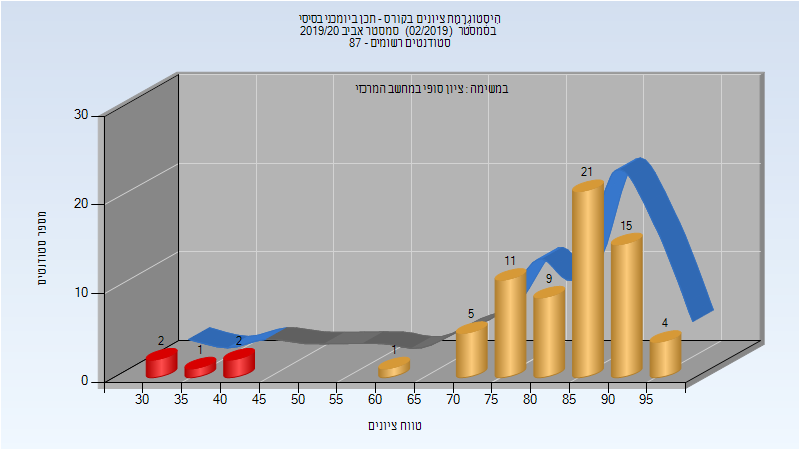
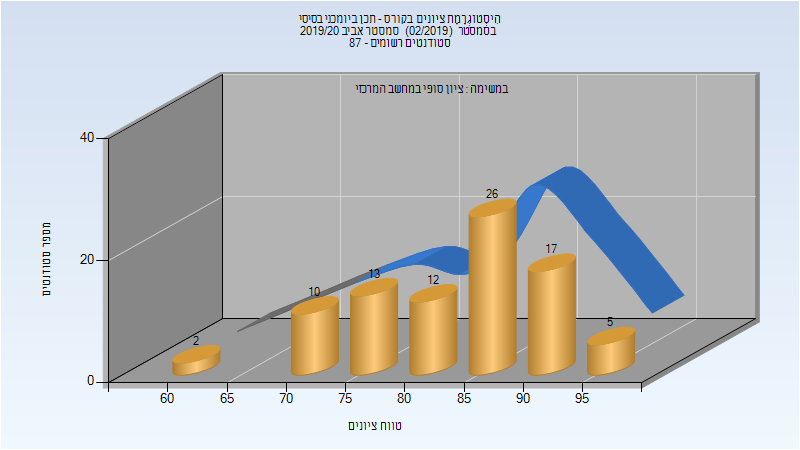
Deploy michael-maltsev/technion-histograms to github.com/michael-maltsev/technion-histograms.git:gh-pages

diff --git a/336517/index.html b/336517/index.html
@@ -189,6 +189,58 @@
 </tr>
 </tbody>
 </table>
+<h3>מבחן מועד ב'</h3>
+<p><img src="201902/Exam_B.png" alt="201902 Exam_B" /></p>
+<table>
+<thead>
+<tr>
+<th>סטודנטים</th>
+<th>עברו/נכשלו</th>
+<th>אחוז עוברים</th>
+<th>ציון מינימלי</th>
+<th>ציון מקסימלי</th>
+<th>ממוצע</th>
+<th>חציון</th>
+</tr>
+</thead>
+<tbody>
+<tr>
+<td>13</td>
+<td>12/1</td>
+<td>92</td>
+<td>45</td>
+<td>100</td>
+<td>87</td>
+<td>89</td>
+</tr>
+</tbody>
+</table>
+<h3>סופי מועד ב'</h3>
+<p><img src="201902/Final_B.png" alt="201902 Final_B" /></p>
+<table>
+<thead>
+<tr>
+<th>סטודנטים</th>
+<th>עברו/נכשלו</th>
+<th>אחוז עוברים</th>
+<th>ציון מינימלי</th>
+<th>ציון מקסימלי</th>
+<th>ממוצע</th>
+<th>חציון</th>
+</tr>
+</thead>
+<tbody>
+<tr>
+<td>13</td>
+<td>12/1</td>
+<td>92</td>
+<td>53</td>
+<td>100</td>
+<td>88.308</td>
+<td>90</td>
+</tr>
+</tbody>
+</table>
 <h3>סופי</h3>
 <p><img src="201902/Finals.png" alt="201902 Finals" /></p>
 <table>
@@ -205,13 +257,13 @@
 </thead>
 <tbody>
 <tr>
-<td>48</td>
-<td>48/0</td>
+<td>53</td>
+<td>52/1</td>
+<td>98</td>
+<td>53</td>
 <td>100</td>
-<td>57</td>
-<td>100</td>
-<td>87.729</td>
-<td>90.5</td>
+<td>90.585</td>
+<td>91</td>
 </tr>
 </tbody>
 </table>

diff --git a/335010/index.html b/335010/index.html
@@ -413,6 +413,32 @@
 </tr>
 </tbody>
 </table>
+<h3>סופי מועד ב'</h3>
+<p><img src="201902/Final_B.png" alt="201902 Final_B" /></p>
+<table>
+<thead>
+<tr>
+<th>סטודנטים</th>
+<th>עברו/נכשלו</th>
+<th>אחוז עוברים</th>
+<th>ציון מינימלי</th>
+<th>ציון מקסימלי</th>
+<th>ממוצע</th>
+<th>חציון</th>
+</tr>
+</thead>
+<tbody>
+<tr>
+<td>23</td>
+<td>23/0</td>
+<td>100</td>
+<td>62</td>
+<td>96</td>
+<td>80.478</td>
+<td>78</td>
+</tr>
+</tbody>
+</table>
 <h3>סופי</h3>
 <p><img src="201902/Finals.png" alt="201902 Finals" /></p>
 <table>
@@ -429,12 +455,12 @@
 </thead>
 <tbody>
 <tr>
-<td>71</td>
-<td>66/5</td>
-<td>93</td>
-<td>32</td>
+<td>85</td>
+<td>85/0</td>
+<td>100</td>
+<td>60</td>
 <td>97</td>
-<td>81.437</td>
+<td>84.047</td>
 <td>86</td>
 </tr>
 </tbody>

diff --git a/336517/README.md b/336517/README.md
@@ -54,11 +54,27 @@
 | ---- | ---- | ---- | ---- | ---- | ---- | ---- |
 | 48 | 48/0 | 100 | 57 | 100 | 87.729 | 90.5 |
 
+### מבחן מועד ב'
+
+![201902 Exam_B](201902/Exam_B.png)
+
+| סטודנטים | עברו/נכשלו | אחוז עוברים | ציון מינימלי | ציון מקסימלי | ממוצע | חציון |
+| ---- | ---- | ---- | ---- | ---- | ---- | ---- |
+| 13 | 12/1 | 92 | 45 | 100 | 87 | 89 |
+
+### סופי מועד ב'
+
+![201902 Final_B](201902/Final_B.png)
+
+| סטודנטים | עברו/נכשלו | אחוז עוברים | ציון מינימלי | ציון מקסימלי | ממוצע | חציון |
+| ---- | ---- | ---- | ---- | ---- | ---- | ---- |
+| 13 | 12/1 | 92 | 53 | 100 | 88.308 | 90 |
+
 ### סופי
 
 ![201902 Finals](201902/Finals.png)
 
 | סטודנטים | עברו/נכשלו | אחוז עוברים | ציון מינימלי | ציון מקסימלי | ממוצע | חציון |
 | ---- | ---- | ---- | ---- | ---- | ---- | ---- |
-| 48 | 48/0 | 100 | 57 | 100 | 87.729 | 90.5 |
+| 53 | 52/1 | 98 | 53 | 100 | 90.585 | 91 |
 

diff --git a/335010/README.md b/335010/README.md
@@ -125,11 +125,19 @@
 | ---- | ---- | ---- | ---- | ---- | ---- | ---- |
 | 71 | 66/5 | 93 | 32 | 97 | 81.437 | 86 |
 
+### סופי מועד ב'
+
+![201902 Final_B](201902/Final_B.png)
+
+| סטודנטים | עברו/נכשלו | אחוז עוברים | ציון מינימלי | ציון מקסימלי | ממוצע | חציון |
+| ---- | ---- | ---- | ---- | ---- | ---- | ---- |
+| 23 | 23/0 | 100 | 62 | 96 | 80.478 | 78 |
+
 ### סופי
 
 ![201902 Finals](201902/Finals.png)
 
 | סטודנטים | עברו/נכשלו | אחוז עוברים | ציון מינימלי | ציון מקסימלי | ממוצע | חציון |
 | ---- | ---- | ---- | ---- | ---- | ---- | ---- |
-| 71 | 66/5 | 93 | 32 | 97 | 81.437 | 86 |
+| 85 | 85/0 | 100 | 60 | 97 | 84.047 | 86 |
 
